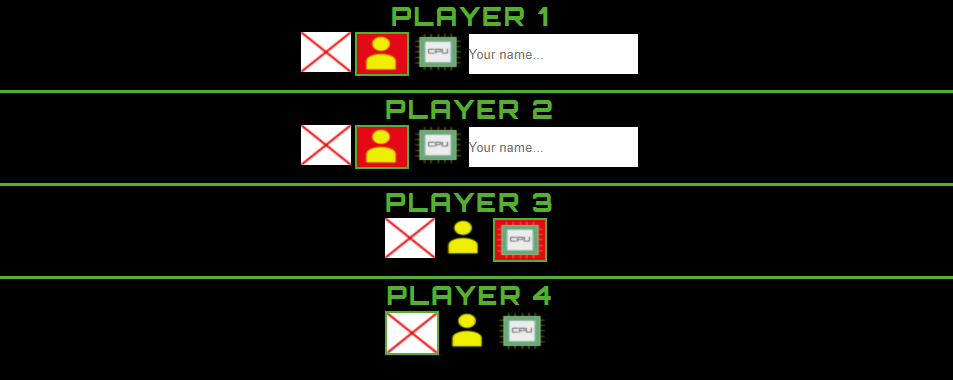
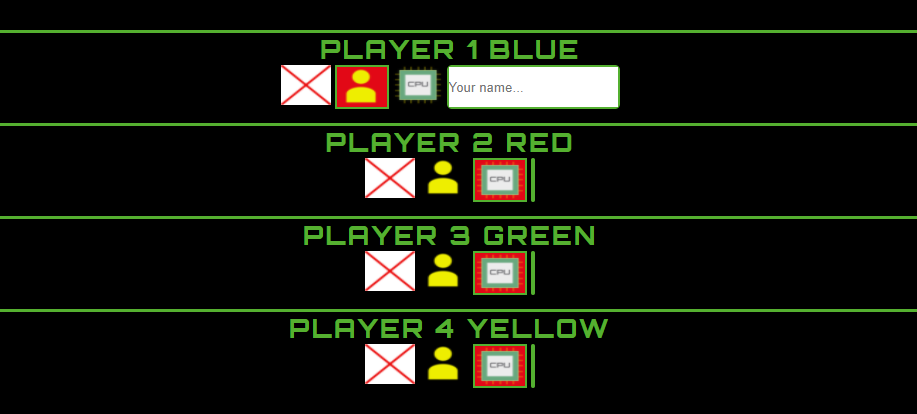
Renamed player title added colour

Changed region(s): [[0.0, 0.0, 1.0, 0.9553]]

diff --git a/index.html b/index.html
@@ -53,7 +53,7 @@
         <div id="main">
             <div id="logo"><img src="assets/images/logo.png" alt="Don't get Angry logo"></div>
             <div class="playerselectioncontainer">
-                <div class="playertitle">PLAYER 1</div>
+                <div class="playertitle">PLAYER 1 BLUE</div>
                 <div class="playerselectionrow">
                     <div id="playerempty_1" onclick="javascript:playerSelectionButtonClicked(this, 1, 1);" class="playerbuttons"><img class="playerbuttonimage" src="assets/images/empty.png" alt="no player icon" id="playeremptyimg_1" ></div>
                     <div id="playerhuman_1" onclick="javascript:playerSelectionButtonClicked(this, 1, 2);" class="playerbuttons"><img  class="playerbuttonimage" src="assets/images/human.png" alt="human player icon" id="playerhumanimg_1" ></div>
@@ -62,7 +62,7 @@
                 </div>
             </div>
             <div class="playerselectioncontainer">
-                <div class="playertitle">PLAYER 2</div>
+                <div class="playertitle">PLAYER 2 RED</div>
                 <div class="playerselectionrow">
                     <div id="playerempty_2" onclick="javascript:playerSelectionButtonClicked(this, 2, 1);" class="playerbuttons"><img class="playerbuttonimage" src="assets/images/empty.png" alt="no player icon" id="playeremptyimg_2" ></div>
                     <div id="playerhuman_2" onclick="javascript:playerSelectionButtonClicked(this, 2, 2);" class="playerbuttons"><img  class="playerbuttonimage" src="assets/images/human.png" alt="human player icon" id="playerhumanimg_2" ></div>
@@ -71,7 +71,7 @@
                 </div>
             </div>
             <div class="playerselectioncontainer">
-                <div class="playertitle">PLAYER 3</div>
+                <div class="playertitle">PLAYER 3 GREEN</div>
                 <div class="playerselectionrow">
                     <div id="playerempty_3" onclick="javascript:playerSelectionButtonClicked(this, 3, 1);" class="playerbuttons"><img class="playerbuttonimage" src="assets/images/empty.png" alt="no player icon" id="playeremptyimg_3" ></div>
                     <div id="playerhuman_3" onclick="javascript:playerSelectionButtonClicked(this, 3, 2);" class="playerbuttons"><img  class="playerbuttonimage" src="assets/images/human.png" alt="human player icon" id="playerhumanimg_3" ></div>
@@ -80,7 +80,7 @@
                 </div>
             </div>
             <div class="playerselectioncontainer">
-                <div class="playertitle">PLAYER 4</div>
+                <div class="playertitle">PLAYER 4 YELLOW</div>
                 <div class="playerselectionrow">
                     <div id="playerempty_4" onclick="javascript:playerSelectionButtonClicked(this,4, 1);" class="playerbuttons"><img class="playerbuttonimage" src="assets/images/empty.png"  alt="no player icon" id="playeremptyimg_4" ></div>
                     <div id="playerhuman_4" onclick="javascript:playerSelectionButtonClicked(this, 4, 2);" class="playerbuttons"><img  class="playerbuttonimage" src="assets/images/human.png" alt="human player icon" id="playerhumanimg_4" ></div>
